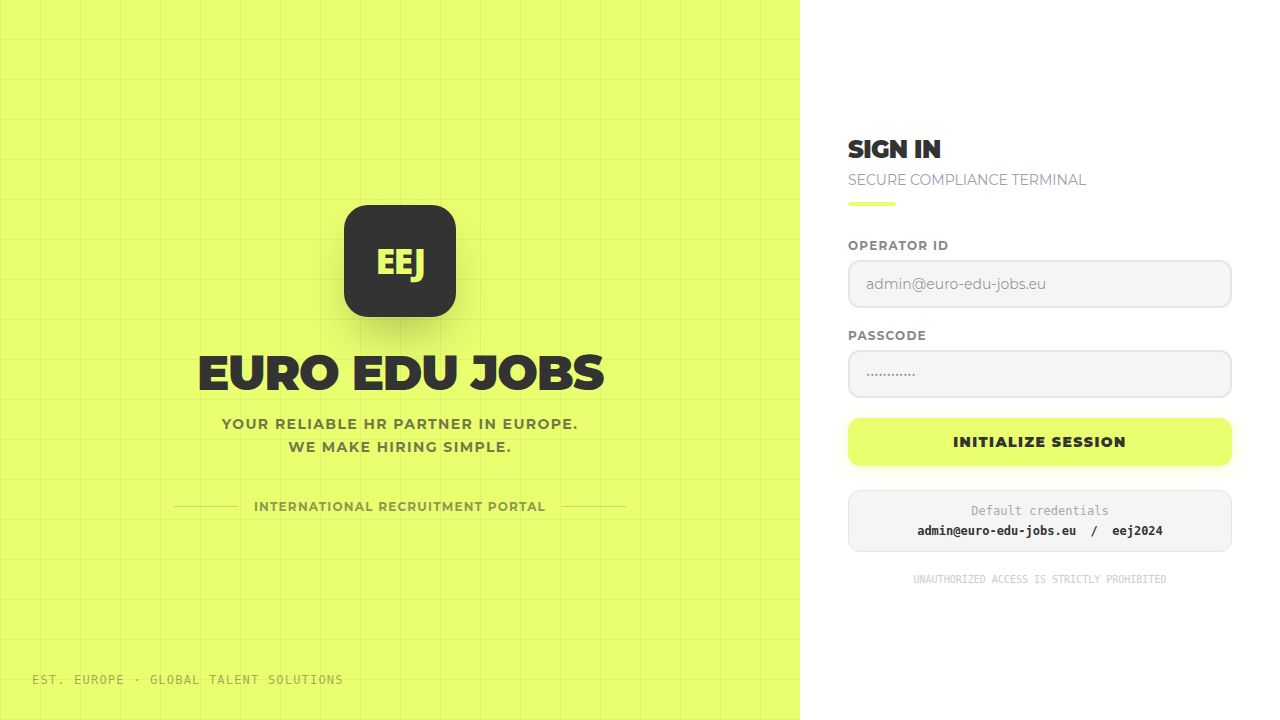
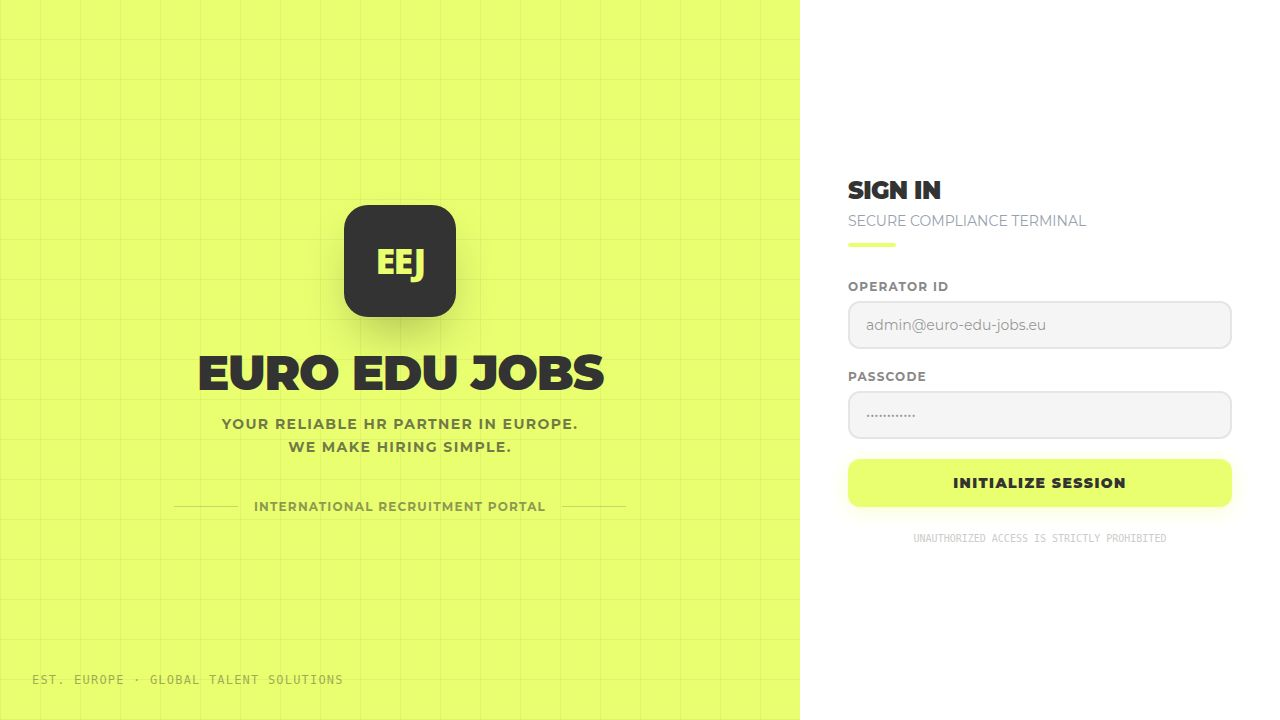
Update client assignment and filters, and remove login hint
Replace fixed site selection with free-text client input in the edit panel, update the "All Sites" filter to dynamically list clients, and remove the default credentials hint from the login screen.

Replit-Commit-Author: Agent
Replit-Commit-Session-Id: 2e5fff88-cc1a-4dc5-8165-2d2c0d6e728a
Replit-Commit-Checkpoint-Type: full_checkpoint
Replit-Commit-Event-Id: 47f61f1e-874c-4bbe-bca3-4bd721d3a5f1
Replit-Commit-Screenshot-Url: https://storage.googleapis.com/screenshot-production-us-central1/ac98a191-e452-40e8-a6e5-2a489f4170f2/2e5fff88-cc1a-4dc5-8165-2d2c0d6e728a/LhexvnU
Replit-Helium-Checkpoint-Created: true

diff --git a/artifacts/apatris-dashboard/src/components/CandidateEditPanel.tsx b/artifacts/apatris-dashboard/src/components/CandidateEditPanel.tsx
@@ -1,5 +1,5 @@
 import React, { useEffect, useRef, useState } from "react";
-import { X, Upload, CheckCircle2, Loader2, Save, FileText, Shield, Award, ChevronDown, MapPin, Clock, Plus } from "lucide-react";
+import { X, Upload, CheckCircle2, Loader2, Save, FileText, Shield, Award, MapPin, Clock, Plus } from "lucide-react";
 import { useGetWorker } from "@workspace/api-client-react";
 import { getGetWorkerQueryKey } from "@workspace/api-client-react";
 import { useQueryClient } from "@tanstack/react-query";
@@ -478,41 +478,35 @@ export function CandidateEditPanel({ workerId, onClose }: CandidateEditPanelProp
               </p>
             </div>
 
-            {/* ── SECTION 4: Deployment ── */}
+            {/* ── SECTION 4: Client Assignment ── */}
             <div>
               <div className="flex items-center gap-2 mb-3">
                 <div className="h-px flex-1" style={{ background: LIME_BORDER }} />
-                <span className="text-[10px] font-black uppercase tracking-widest" style={{ color: LIME }}>Assign To Site</span>
+                <span className="text-[10px] font-black uppercase tracking-widest" style={{ color: LIME }}>Assign To Client</span>
                 <div className="h-px flex-1" style={{ background: LIME_BORDER }} />
               </div>
               <p className="text-[10px] text-gray-500 font-mono mb-3">
-                Track where this candidate is currently deployed or mark as available.
+                Enter any company name (e.g. "Amazon Logistics", "Berlin Hospital"). Leave blank or type "Available" to mark as unassigned.
               </p>
               <div className="relative">
-                <select
+                <input
+                  type="text"
                   value={siteLocation}
                   onChange={(e) => setSiteLocation(e.target.value)}
-                  className="w-full bg-slate-800 text-white rounded-lg px-3 py-2.5 text-sm font-mono appearance-none focus:outline-none transition-colors pr-8"
+                  placeholder='e.g. Amazon Logistics, Berlin Hospital, Available…'
+                  className="w-full bg-slate-800 text-white rounded-lg px-3 py-2.5 text-sm font-mono focus:outline-none placeholder:text-gray-600 transition-colors"
                   style={{ border: `1px solid ${LIME_BORDER}` }}
                   onFocus={(e) => { e.currentTarget.style.borderColor = LIME; }}
                   onBlur={(e) => { e.currentTarget.style.borderColor = LIME_BORDER; }}
-                >
-                  <option value="">— Select Deployment Status —</option>
-                  <option value="Available">Available / Bench</option>
-                  <option value="Site A">Site A</option>
-                  <option value="Site B">Site B</option>
-                  <option value="Site C">Site C</option>
-                  <option value="Internal Project">Internal Project</option>
-                </select>
-                <ChevronDown className="w-4 h-4 text-gray-400 absolute right-2.5 top-1/2 -translate-y-1/2 pointer-events-none" />
+                />
               </div>
-              {siteLocation && siteLocation !== "Available" && (
+              {siteLocation && siteLocation.trim() !== "" && siteLocation !== "Available" && (
                 <div
                   className="mt-2 flex items-center gap-2 px-3 py-2 rounded-lg text-xs font-bold"
                   style={{ background: "#E9FF70", color: "#333333" }}
                 >
                   <MapPin className="w-3.5 h-3.5" />
-                  Deploying to: {siteLocation}
+                  Assigning to: {siteLocation}
                 </div>
               )}
             </div>

diff --git a/artifacts/apatris-dashboard/src/pages/Dashboard.tsx b/artifacts/apatris-dashboard/src/pages/Dashboard.tsx
@@ -105,6 +105,15 @@ export default function Dashboard() {
   
   const { data: stats } = useGetWorkerStats();
 
+  // Derive unique client/site names dynamically from live data
+  const uniqueClients = Array.from(
+    new Set(
+      (workersData?.workers ?? [])
+        .map((w) => (w as any).siteLocation as string | undefined)
+        .filter((s): s is string => !!s && s !== "Available")
+    )
+  ).sort();
+
   const handleNotify = (e: React.MouseEvent, worker: any) => {
     e.stopPropagation();
     setActionWorker(worker);
@@ -398,7 +407,7 @@ export default function Dashboard() {
                 <option value="non-compliant">{t("table.nonCompliant")}</option>
               </select>
             </div>
-            <div className="relative flex-1 md:w-44">
+            <div className="relative flex-1 md:w-52">
               <MapPin className="absolute left-3 top-1/2 -translate-y-1/2 w-4 h-4 text-muted-foreground" />
               <select
                 value={siteFilter}
@@ -406,12 +415,11 @@ export default function Dashboard() {
                 className="w-full pl-10 pr-8 py-2.5 bg-slate-900 border border-slate-500 rounded-lg text-sm font-mono text-white appearance-none focus:outline-none focus:border-primary/60 transition-colors"
                 style={siteFilter ? { borderColor: "rgba(233,255,112,0.5)", color: "#E9FF70" } : {}}
               >
-                <option value="">All Sites</option>
+                <option value="">All Clients</option>
                 <option value="Available">Available / Bench</option>
-                <option value="Site A">Site A</option>
-                <option value="Site B">Site B</option>
-                <option value="Site C">Site C</option>
-                <option value="Internal Project">Internal Project</option>
+                {uniqueClients.map((client) => (
+                  <option key={client} value={client}>{client}</option>
+                ))}
               </select>
             </div>
           </div>

diff --git a/artifacts/apatris-dashboard/src/pages/Login.tsx b/artifacts/apatris-dashboard/src/pages/Login.tsx
@@ -202,20 +202,7 @@ export default function Login() {
             </button>
           </form>
 
-          {/* Credentials hint */}
-          <div
-            className="mt-6 p-3 rounded-xl text-center space-y-1"
-            style={{ background: "#f5f5f5", border: "1px solid #e5e5e5" }}
-          >
-            <p className="text-xs font-mono" style={{ color: "#aaa" }}>
-              {t("login.defaultCredentials")}
-            </p>
-            <p className="text-xs font-mono font-bold" style={{ color: DARK }}>
-              {(import.meta.env.VITE_ADMIN_EMAIL as string | undefined) ?? "admin@euro-edu-jobs.eu"} &nbsp;/&nbsp; ••••••
-            </p>
-          </div>
-
-          <p className="text-center text-[10px] font-mono mt-5" style={{ color: "#ccc" }}>
+          <p className="text-center text-[10px] font-mono mt-6" style={{ color: "#ccc" }}>
             {t("login.unauthorized")}
           </p>
         </div>
